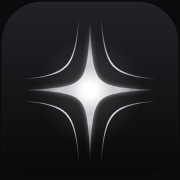
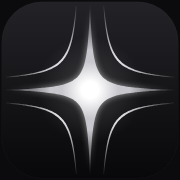
AEON: no ícone, as pontas da estrela vão até a borda do quadrado
Claude-Session: https://claude.ai/code/session_01DogcVXwCU4tCwcvpF1b14X

diff --git a/products/ai-edit/src/marca.js b/products/ai-edit/src/marca.js
@@ -110,8 +110,8 @@ export const FORMAS = Object.freeze({
  * A estrela no palco (ícone, site, abertura), como na prancha: o miolo acende do centro, um brilho leve em volta e
  * pontas e fios que somem aos poucos. Devolve defs + desenho para entrar num <svg>; id separa os gradientes.
  */
-export function estrelaComBrilho({ cx, cy, r, forma = 'compacta', claro = false, id = 'aeon' }) {
-  const g = { cx, cy, r, ...FORMAS[forma] }
+export function estrelaComBrilho({ cx, cy, r, forma = 'compacta', claro = false, id = 'aeon', ...ajuste }) {
+  const g = { cx, cy, r, ...FORMAS[forma], ...ajuste }
   const H = r * g.largura
   const tinta = claro ? ['#000000', '#3a3a3f'] : ['#ffffff', '#c7c7cd']
   const fio = claro ? '#2c2c30' : '#e4e4e9'
@@ -177,7 +177,7 @@ export function assinatura({ cor = 'currentColor', frase = true } = {}) {
   return `<svg xmlns="http://www.w3.org/2000/svg" viewBox="0 0 520 ${frase ? 350 : 300}" role="img" aria-label="${PRODUTO.nome} · ${PRODUTO.frase}">${sim}${nome}${f}</svg>`
 }
 
-/** Ícone do app (1024): a estrela de palco sobre grafite (ou papel), com um halo bem leve atrás do centro. */
+/** Ícone do app (1024): a estrela de palco sobre grafite (ou papel); as quatro pontas vão até a borda do quadrado. */
 export function icone({ claro = false } = {}) {
   const fundo = claro ? ['#ffffff', '#e9e9ee'] : ['#232327', '#08080a']
   const halo = claro ? '#000000' : '#ffffff'
@@ -188,7 +188,8 @@ export function icone({ claro = false } = {}) {
 <rect x="100" y="100" width="824" height="824" rx="190" fill="url(#${id}-fundo)"/>
 <rect x="100.5" y="100.5" width="823" height="823" rx="189.5" fill="none" stroke="${claro ? '#000' : '#fff'}" stroke-opacity="${claro ? 0.08 : 0.12}"/>
 <circle cx="512" cy="512" r="250" fill="url(#${id}-halo)"/>
-${estrelaComBrilho({ cx: 512, cy: 512, r: 340, claro, id })}
+<clipPath id="${id}-caixa"><rect x="100" y="100" width="824" height="824" rx="190"/></clipPath>
+<g clip-path="url(#${id}-caixa)">${estrelaComBrilho({ cx: 512, cy: 512, r: 412, largura: 1, claro, id })}</g>
 </svg>`
 }
 
